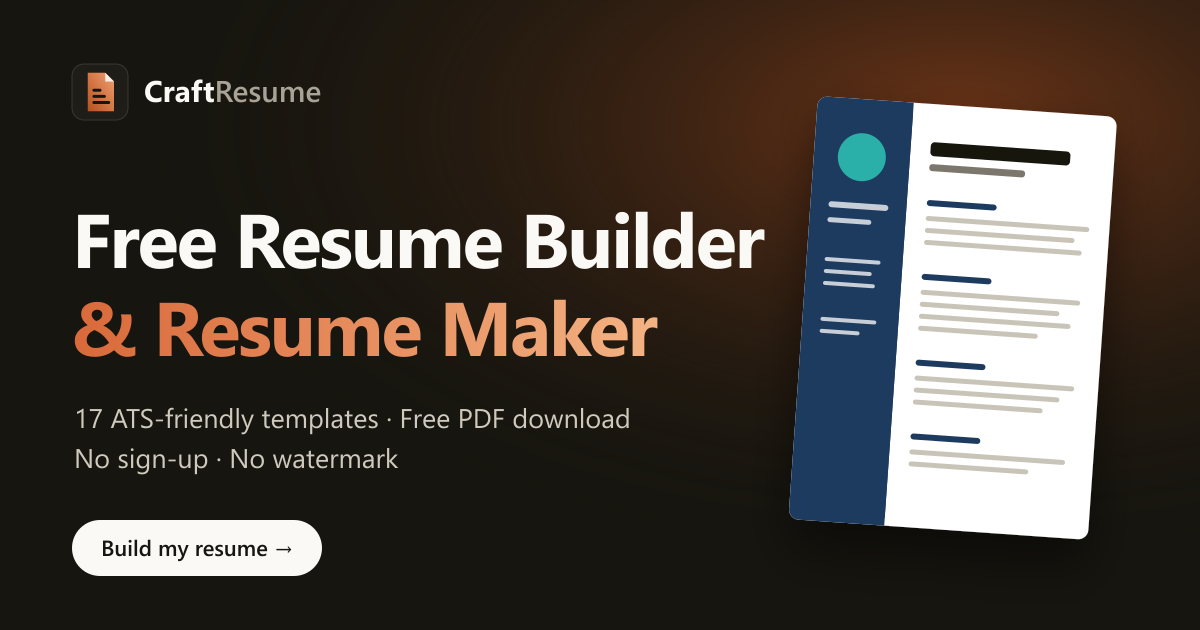
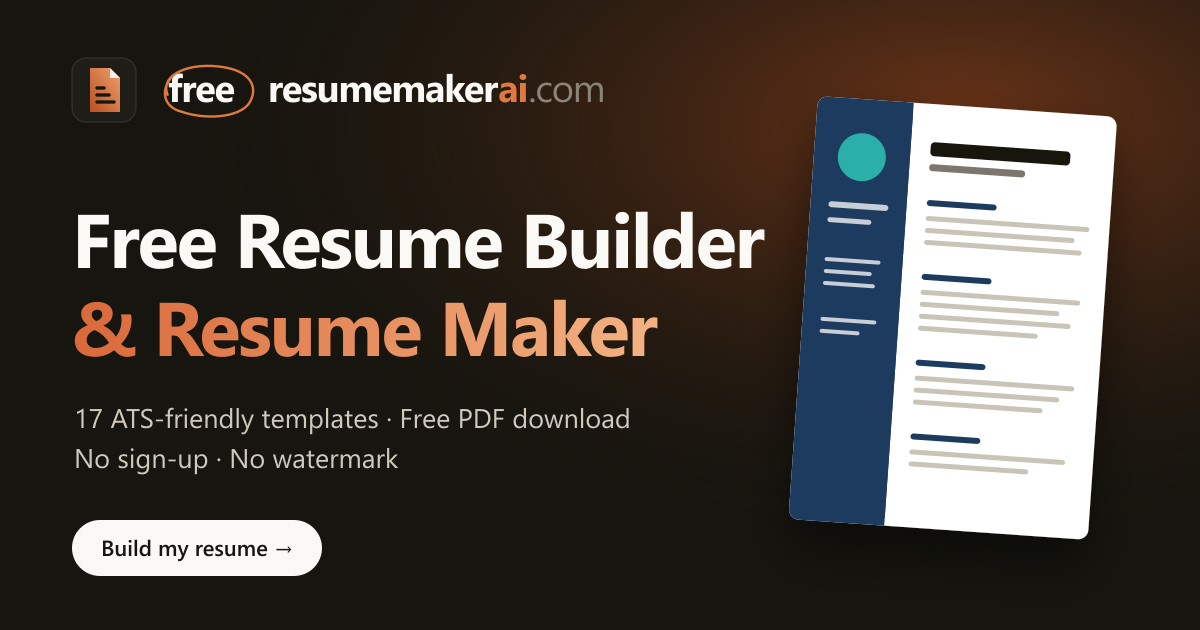
Rebrand to Free Resume Maker AI (freeresumemakerai.com)
- New pen-circled "free" wordmark (Wordmark.astro) used in the header,
  footer and toolbars, with a draw-on animation; plain page icon.
- Site, canonical URLs, sitemap, robots.txt and og:site_name moved to
  https://freeresumemakerai.com.
- Page titles, home copy, FAQ and JSON-LD renamed; the AI FAQ answer stays
  honest that the tool does not generate text with generative AI.
- Regenerated favicon, apple-touch icon and 1200x630 share image.
- Internal storage keys are unchanged so saved resumes survive the rename.

Changed region(s): [[0.0617, 0.0905, 0.4933, 0.2111]]

diff --git a/src/pages/sitemap.xml.ts b/src/pages/sitemap.xml.ts
@@ -14,7 +14,7 @@ const PAGES: { path: string; priority: string; changefreq: string }[] = [
 ];
 
 export const GET: APIRoute = ({ site }) => {
-  const base = site ?? new URL('https://craftresume.app');
+  const base = site ?? new URL('https://freeresumemakerai.com');
   const urls = PAGES.map(
     (p) =>
       `  <url>\n    <loc>${new URL(p.path, base).href}</loc>\n    <changefreq>${p.changefreq}</changefreq>\n    <priority>${p.priority}</priority>\n  </url>`,

diff --git a/src/lib/export.ts b/src/lib/export.ts
@@ -1091,7 +1091,7 @@ export async function printResumeIframe(sheetsHtml: string, documentTitle = 'Res
         win.focus();
         win.print();
       } catch (err) {
-        console.error('[CraftResume Print] Iframe print failed, using standard fallback:', err);
+        console.error('[Free Resume Maker AI Print] Iframe print failed, using standard fallback:', err);
         window.print();
         cleanup();
       }

diff --git a/src/styles/ui-polish.css b/src/styles/ui-polish.css
@@ -509,7 +509,7 @@
   grid-column: 1 / -1;
 }
 
-/* --- Home: long-form "About CraftResume" copy ------------------------------ */
+/* --- Home: long-form "About Free Resume Maker AI" copy ------------------------------ */
 .seo-copy {
   max-width: 44rem;
   font-size: 15.5px;

diff --git a/README.md b/README.md
@@ -1,4 +1,4 @@
-# CraftResume
+# Free Resume Maker AI (freeresumemakerai.com)
 
 A free resume builder. Pick a template, fill in your details, download a clean A4 PDF.
 No account, no watermark, nothing uploaded to a server.
